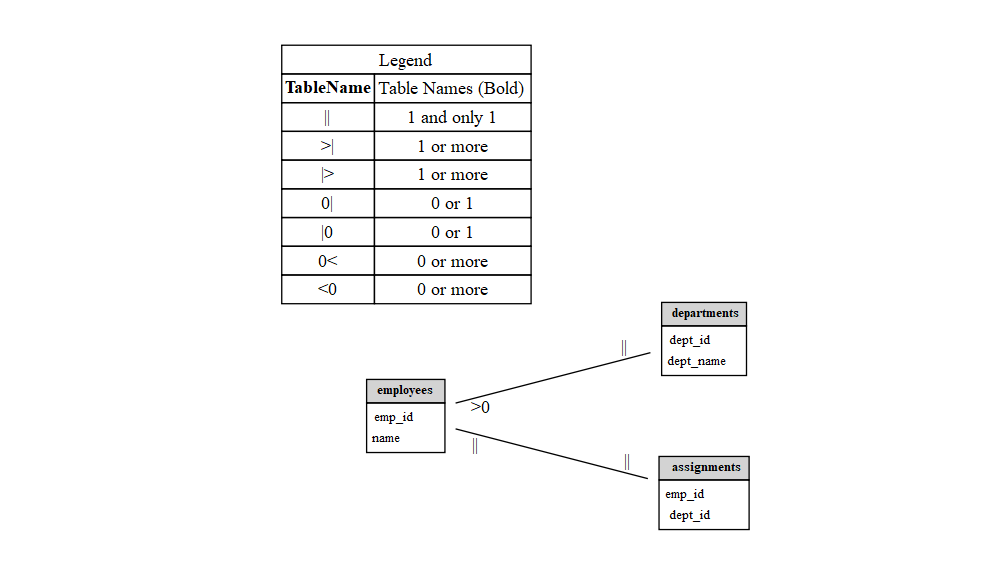
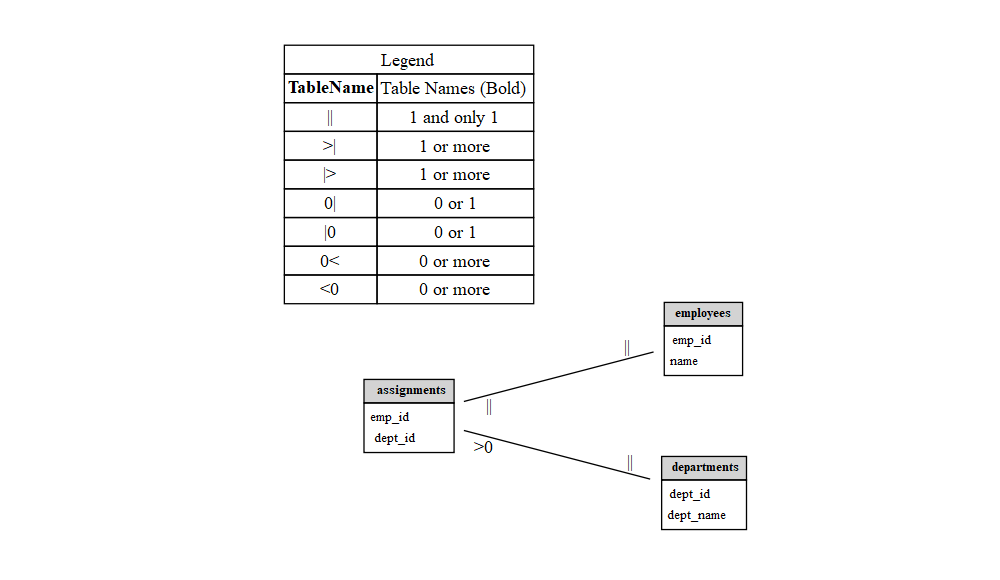
Improve example 2.

diff --git a/README.md b/README.md
@@ -155,8 +155,8 @@ assignments <- data.frame(
 # Define relationships _________________________________________________________
 
 relationships <- list(
-  employees = list(
-    assignments = list(emp_id = "emp_id", relationship = c("||", "||")),
+  assignments = list(
+    employees = list(emp_id = "emp_id", relationship = c("||", "||")),
     departments = list(dept_id = "dept_id", relationship = c(">0", "||"))
   )
 )
